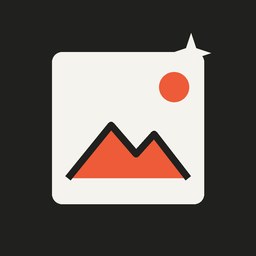
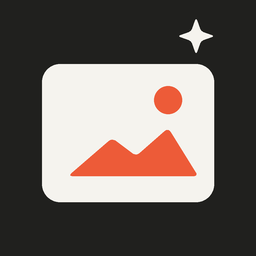
feat: integrate shared styles submodule and refresh site assets
Point styles-source at the latest shared tokens, add public sync
script, and refresh website pages/brand assets.

Changed region(s): [[0.1562, 0.0625, 0.8438, 0.8125], [0.5938, 0.2812, 0.75, 0.4688]]

diff --git a/styles.css b/styles.css
@@ -1,24 +1,17 @@
 :root {
   color-scheme: light;
-  --ink: #20201e;
-  --muted: #686863;
-  --paper: #f5f3ee;
-  --line: #dcd9d0;
-  --accent: #ed5b38;
-  --accent-dark: #c94427;
-  --card: #e8e5dd;
   font-family: Inter, ui-sans-serif, system-ui, -apple-system, BlinkMacSystemFont, "Segoe UI", sans-serif;
 }
 
 * { box-sizing: border-box; }
-body { margin: 0; background: var(--paper); color: var(--ink); line-height: 1.6; }
+body { margin: 0; background: var(--pp-color-paper); color: var(--pp-color-ink); line-height: 1.6; }
 a { color: inherit; text-decoration: none; }
 .shell { width: min(1120px, calc(100% - 48px)); margin-inline: auto; }
 .site-header { width: min(1120px, calc(100% - 48px)); margin: 0 auto; min-height: 88px; display: flex; align-items: center; justify-content: space-between; border-bottom: 1px solid var(--line); }
 .brand { align-items: center; display: inline-flex; font-size: 1.35rem; font-weight: 800; gap: 9px; letter-spacing: -.06em; }
 .brand img { background: var(--ink); border-radius: 8px; height: 30px; width: 30px; }
 nav { display: flex; align-items: center; gap: 28px; font-size: .9rem; }
-nav a:hover, .text-link:hover { color: var(--accent-dark); }
+nav a:hover, .text-link:hover { color: var(--pp-color-accent-dark); }
 .nav-cta { border: 1px solid var(--ink); border-radius: 999px; padding: 8px 16px; }
 .hero { display: grid; grid-template-columns: 1.05fr .95fr; gap: 80px; padding: 116px 0 136px; align-items: center; }
 .eyebrow { color: var(--accent-dark); font-size: .72rem; font-weight: 800; letter-spacing: .16em; margin: 0 0 20px; text-transform: uppercase; }
@@ -32,11 +25,11 @@ h1 span { color: var(--accent); }
 .button.primary:hover { background: var(--accent-dark); }
 .button.secondary { border: 1px solid var(--line); }
 .button.secondary:hover { border-color: var(--ink); }
-.hero-card { background: var(--card); border: 1px solid #d5d1c7; border-radius: 18px; box-shadow: 18px 22px 0 #dedbd2; padding: 20px; transform: rotate(2deg); }
+.hero-card { background: var(--pp-color-panel); border: 1px solid var(--pp-color-line); border-radius: 18px; box-shadow: 18px 22px 0 var(--pp-color-shadow); padding: 20px; transform: rotate(2deg); }
 .card-top { align-items: center; display: flex; gap: 7px; color: var(--muted); font-size: .72rem; }
-.dot { border-radius: 50%; height: 8px; width: 8px; }.red { background: #ed5b38; }.yellow { background: #e8b44d; }.green { background: #72a76e; }.card-label { margin-left: 8px; }
+.dot { border-radius: 50%; height: 8px; width: 8px; }.red { background: var(--accent); }.yellow { background: var(--pp-color-yellow); }.green { background: var(--pp-color-green); }.card-label { margin-left: 8px; }
 .media-preview { align-items: center; background: #c9c5ba; border-radius: 10px; display: flex; gap: 12px; margin: 24px 0 18px; min-height: 210px; padding: 18px; font-size: .83rem; font-weight: 700; }
-.media-icon { align-items: center; background: #f5f3eeaa; border-radius: 50%; display: flex; font-size: 2.5rem; height: 72px; justify-content: center; width: 72px; }
+.media-icon { align-items: center; background: var(--pp-color-paper-overlay); border-radius: 50%; display: flex; font-size: 2.5rem; height: 72px; justify-content: center; width: 72px; }
 .tag-list { display: flex; flex-wrap: wrap; gap: 7px; }.tag-list span { background: var(--paper); border-radius: 5px; font-size: .72rem; padding: 5px 8px; }
 .progress { background: #cfcbc2; border-radius: 999px; height: 5px; margin-top: 24px; overflow: hidden; }.progress span { background: var(--accent); display: block; height: 100%; width: 42%; }.muted { color: var(--muted); font-size: .72rem; margin: 9px 0 0; }
 .feature-grid { border-top: 1px solid var(--line); display: grid; grid-template-columns: repeat(3, 1fr); gap: 54px; padding: 42px 0 128px; }.feature-number { color: var(--accent); font-size: .75rem; font-weight: 800; }.feature-grid h2 { font-size: 1.4rem; letter-spacing: -.04em; margin: 18px 0 10px; }.feature-grid p { color: var(--muted); font-size: .92rem; margin: 0; }

diff --git a/pricing.html b/pricing.html
@@ -1,6 +1,6 @@
 <!doctype html>
 <html lang="zh-CN">
-  <head><meta charset="UTF-8" /><meta name="viewport" content="width=device-width, initial-scale=1" /><meta name="description" content="Picpoet 定价" /><link rel="icon" href="assets/picpoet-mark.svg" type="image/svg+xml" /><meta name="theme-color" content="#20201e" /><title>定价 · Picpoet</title><link rel="stylesheet" href="styles.css" /></head>
+  <head><meta charset="UTF-8" /><meta name="viewport" content="width=device-width, initial-scale=1" /><meta name="description" content="Picpoet 定价" /><link rel="icon" href="assets/picpoet-mark.svg" type="image/svg+xml" /><meta name="theme-color" content="#20201e" /><title>定价 · Picpoet</title><link rel="stylesheet" href="styles.css" /><link rel="stylesheet" href="shared/picpoet-tokens.css" /></head>
   <body>
     <header class="site-header"><a class="brand" href="index.html"><img src="assets/picpoet-mark.svg" alt="" /> <span>Picpoet</span></a><nav aria-label="主导航"><a href="docs.html">使用说明</a><a href="pricing.html">定价</a><a href="downloads.html">下载</a><a class="nav-cta" href="https://github.com/picpoet-org/picpoet" target="_blank" rel="noreferrer">GitHub</a></nav></header>
     <main class="shell"><section class="page-header"><p class="eyebrow">Pricing</p><h1>透明、简单，按你的方式运行。</h1><p class="lede">Picpoet 本地运行。软件本身不收取订阅费，模型服务产生的费用由你选择的服务商决定。</p></section><div class="content-grid"><aside class="side-nav"><a href="#local">本地运行</a><a href="#cloud">模型费用</a><a href="#compare">能力对比</a></aside><div class="content"><section id="local"><h2>本地运行 · 免费</h2><p>命令行工具和 Windows 桌面应用均可从 GitHub 获取。你的媒体文件保留在自己的设备上，适合个人照片和家庭归档。</p></section><section id="cloud"><h3>模型服务费用</h3><p>当你使用云端视觉模型时，费用由对应模型供应商按 API 用量收取。使用本地模型服务时，则不产生云端 API 调用费用。</p></section><section id="compare"><h3>能力对比</h3><div class="table-wrap"><table class="pricing-table"><thead><tr><th>能力</th><th>本地模型</th><th>云端模型</th></tr></thead><tbody><tr><td>文件留在本机</td><td>是</td><td>取决于服务商</td></tr><tr><td>API 用量费用</td><td>无</td><td>按服务商计费</td></tr><tr><td>批量处理</td><td>支持</td><td>支持</td></tr><tr><td>自定义标签规则</td><td>支持</td><td>支持</td></tr></tbody></table></div></section></div></div></main>

diff --git a/downloads.html b/downloads.html
@@ -1,6 +1,6 @@
 <!doctype html>
 <html lang="zh-CN">
-  <head><meta charset="UTF-8" /><meta name="viewport" content="width=device-width, initial-scale=1" /><meta name="description" content="下载 Picpoet" /><link rel="icon" href="assets/picpoet-mark.svg" type="image/svg+xml" /><meta name="theme-color" content="#20201e" /><title>下载 · Picpoet</title><link rel="stylesheet" href="styles.css" /></head>
+  <head><meta charset="UTF-8" /><meta name="viewport" content="width=device-width, initial-scale=1" /><meta name="description" content="下载 Picpoet" /><link rel="icon" href="assets/picpoet-mark.svg" type="image/svg+xml" /><meta name="theme-color" content="#20201e" /><title>下载 · Picpoet</title><link rel="stylesheet" href="styles.css" /><link rel="stylesheet" href="shared/picpoet-tokens.css" /></head>
   <body>
     <header class="site-header"><a class="brand" href="index.html"><img src="assets/picpoet-mark.svg" alt="" /> <span>Picpoet</span></a><nav aria-label="主导航"><a href="docs.html">使用说明</a><a href="pricing.html">定价</a><a href="downloads.html">下载</a><a class="nav-cta" href="https://github.com/picpoet-org/picpoet" target="_blank" rel="noreferrer">GitHub</a></nav></header>
     <main class="shell"><section class="page-header"><p class="eyebrow">Downloads</p><h1>选择适合你的 Picpoet。</h1><p class="lede">命令行版本适合自动化和脚本；Windows 桌面应用提供更直观的图形界面。</p></section><div class="content-grid"><aside class="side-nav"><a href="#desktop">Windows 桌面应用</a><a href="#cli">命令行工具</a><a href="#source">源代码</a></aside><div class="content"><section id="desktop"><h2>Windows 桌面应用</h2><p>基于 Electron 构建，首期支持 Windows。安装包将在 desktop-app 仓库的 Releases 页面发布。</p><a class="button primary" href="https://github.com/picpoet-org/desktop-app/releases" target="_blank" rel="noreferrer">查看 Windows Releases</a></section><section id="cli"><h3>命令行工具</h3><p>通过 npm 安装和运行最新版本：</p><div class="code">npm install<br />npm run build<br />npm start -- tag ./photos</div><a class="text-link" href="https://github.com/picpoet-org/picpoet" target="_blank" rel="noreferrer">查看 CLI 源码 <span>→</span></a></section><section id="source"><h3>源代码</h3><p>Picpoet 的网站和桌面应用项目均公开维护，欢迎提交 issue 和改进建议。</p><a class="text-link" href="https://github.com/picpoet-org" target="_blank" rel="noreferrer">访问 Picpoet Org <span>→</span></a></section></div></div></main>

diff --git a/docs.html b/docs.html
@@ -1,6 +1,6 @@
 <!doctype html>
 <html lang="zh-CN">
-  <head><meta charset="UTF-8" /><meta name="viewport" content="width=device-width, initial-scale=1" /><meta name="description" content="Picpoet 使用说明" /><link rel="icon" href="assets/picpoet-mark.svg" type="image/svg+xml" /><meta name="theme-color" content="#20201e" /><title>使用说明 · Picpoet</title><link rel="stylesheet" href="styles.css" /></head>
+  <head><meta charset="UTF-8" /><meta name="viewport" content="width=device-width, initial-scale=1" /><meta name="description" content="Picpoet 使用说明" /><link rel="icon" href="assets/picpoet-mark.svg" type="image/svg+xml" /><meta name="theme-color" content="#20201e" /><title>使用说明 · Picpoet</title><link rel="stylesheet" href="styles.css" /><link rel="stylesheet" href="shared/picpoet-tokens.css" /></head>
   <body>
     <header class="site-header"><a class="brand" href="index.html"><img src="assets/picpoet-mark.svg" alt="" /> <span>Picpoet</span></a><nav aria-label="主导航"><a href="docs.html">使用说明</a><a href="pricing.html">定价</a><a href="downloads.html">下载</a><a class="nav-cta" href="https://github.com/picpoet-org/picpoet" target="_blank" rel="noreferrer">GitHub</a></nav></header>
     <main class="shell"><section class="page-header"><p class="eyebrow">Documentation</p><h1>把媒体库交给 Picpoet。</h1><p class="lede">从安装到第一次批量打标，这里提供一条清晰、可回滚的使用路径。</p></section><div class="content-grid"><aside class="side-nav"><a href="#install">安装</a><a href="#config">配置</a><a href="#commands">常用命令</a><a href="#safety">安全写回</a></aside><div class="content"><section id="install"><h2>安装</h2><p>命令行版本要求 Node.js 20.12 或更高版本。</p><div class="code">npm install<br />npm run build</div></section><section id="config"><h3>配置视觉模型</h3><p>Picpoet 兼容 OpenAI-compatible API，也可以连接本地模型服务。创建配置文件或使用环境变量提供模型地址和 API key。</p><div class="code">{

diff --git a/shared/picpoet-tokens.css b/shared/picpoet-tokens.css
@@ -1,0 +1,47 @@
+/* Generated from tokens/picpoet.json. */
+:root, .picpoet-tokens {
+  --pp-color-ink: #20201e;
+  --pp-color-muted: #77736b;
+  --pp-color-muted-light: #99948a;
+  --pp-color-paper-overlay: rgba(245, 243, 238, 0.67);
+  --pp-color-paper: #f5f3ee;
+  --pp-color-panel: #ebe8df;
+  --pp-color-line: #d7d3c9;
+  --pp-color-accent: #ed5b38;
+  --pp-color-accent-dark: #c94427;
+  --pp-color-green: #72a76e;
+  --pp-color-yellow: #e8b44d;
+  --pp-color-photo: #d8d4ca;
+  --pp-color-photo-placeholder: #c9c5bc;
+  --pp-color-shadow: #dedbd2;
+  --pp-color-progress-track: #cfcbc2;
+  --pp-color-white: #ffffff;
+  --pp-color-ink-overlay: rgba(32, 32, 30, 0.78);
+  --pp-color-scrim: rgba(32, 32, 30, 0.48);
+  --pp-space-1: 4px;
+  --pp-space-2: 8px;
+  --pp-space-3: 12px;
+  --pp-space-4: 16px;
+  --pp-space-5: 20px;
+  --pp-space-6: 24px;
+  --pp-space-8: 32px;
+  --pp-space-12: 48px;
+  --pp-space-16: 64px;
+  --pp-radius-1: 6px;
+  --pp-radius-2: 8px;
+  --pp-radius-3: 12px;
+  --pp-radius-4: 16px;
+  --pp-radius-6: 24px;
+  --pp-breakpoint-compact: 600px;
+  --pp-breakpoint-medium: 840px;
+  --pp-breakpoint-expanded: 1200px;
+  --pp-breakpoint-large: 1600px;
+  --ink: var(--pp-color-ink);
+  --muted: var(--pp-color-muted);
+  --paper: var(--pp-color-paper);
+  --panel: var(--pp-color-panel);
+  --line: var(--pp-color-line);
+  --accent: var(--pp-color-accent);
+  --accent-dark: var(--pp-color-accent-dark);
+  --card: var(--pp-color-panel);
+}

diff --git a/index.html b/index.html
@@ -8,6 +8,7 @@
     <meta name="theme-color" content="#20201e" />
     <title>Picpoet - 让每一张照片更易被发现</title>
     <link rel="stylesheet" href="styles.css" />
+    <link rel="stylesheet" href="shared/picpoet-tokens.css" />
   </head>
   <body>
     <header class="site-header">
